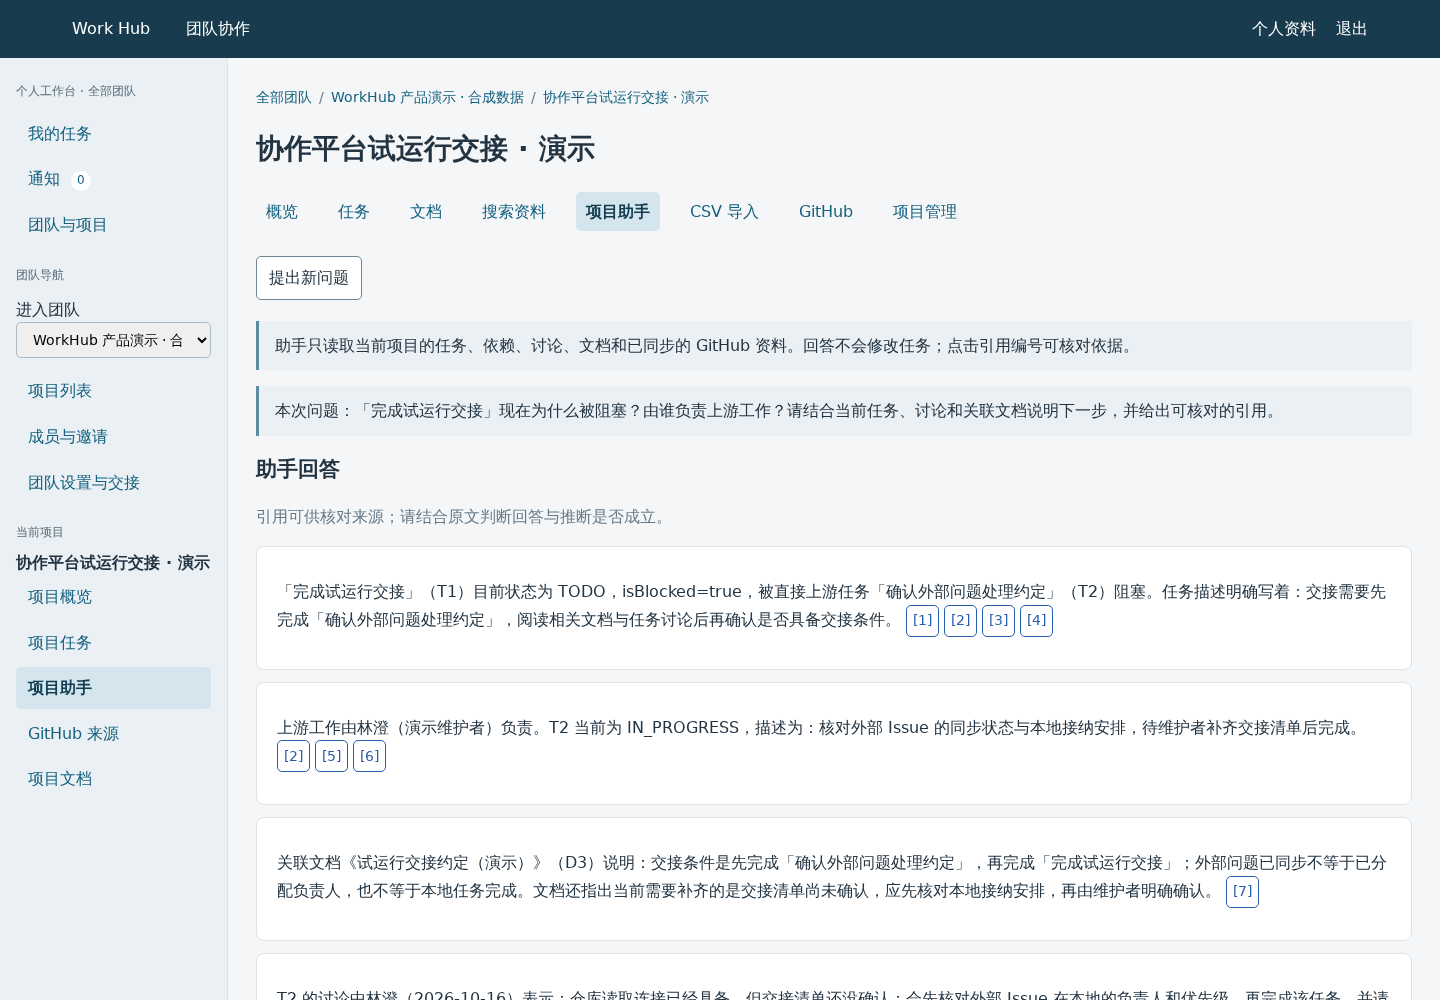
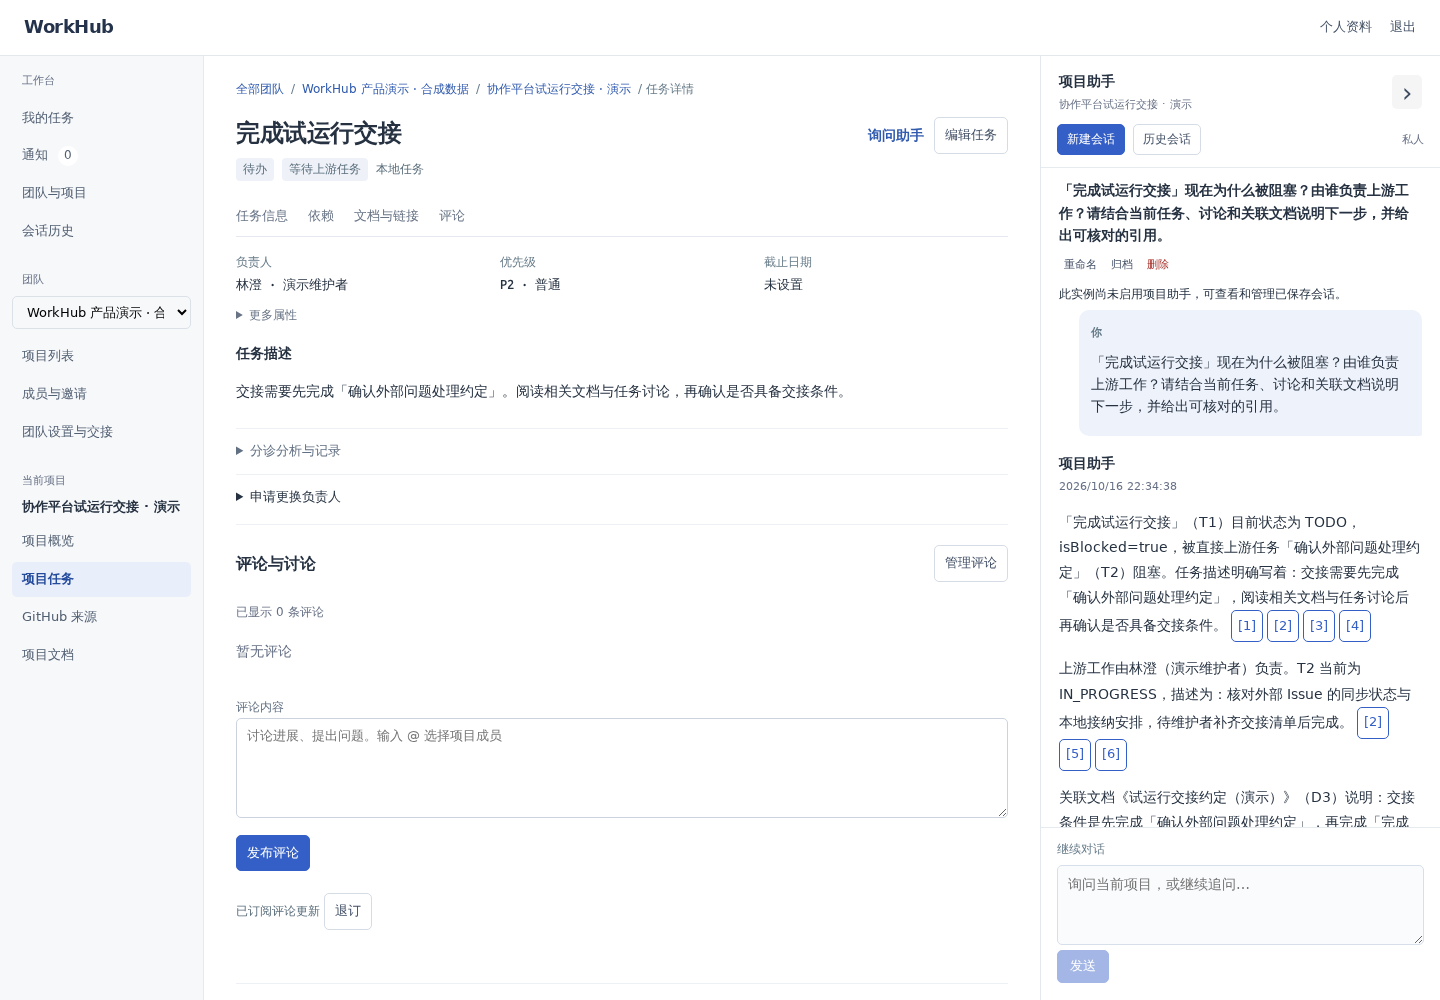
docs: present current product flows and local setup

diff --git a/README.md b/README.md
@@ -1,103 +1,75 @@
 # WorkHub
 
-WorkHub 面向研发团队，集中管理任务、依赖、项目资料和 GitHub Issue。项目助手读取当前项目资料并给出可核对的回答；待分诊任务的建议由维护者编辑、预览并明确批准后，才会提交到业务系统。
+WorkHub 是一个面向小型研发团队的项目协作工作台。任务、依赖、讨论、文档和 GitHub Issue 放在同一个项目中；接手项目时，可以沿着阻塞关系查找原因，也可以让项目助手读取资料，再通过引用核对原文。
 
 ## 产品演示
 
-一条典型路径是：接手项目 → 查看进展和阻塞 → 阅读任务、讨论与文档 → 向项目助手提问 → 点击引用核对原文。GitHub Issue 同步后进入同一个任务流程，维护者可以查看分诊建议并决定是否接纳。
+**先了解进展，再处理阻塞。** 项目概览展示各状态任务、直接阻塞和最近更新；进入任务后，可以继续查看上游工作、负责人、讨论和关联文档。
 
-![项目概览与阻塞任务](docs/assets/project-overview.png)
+![项目概览中的任务状态与阻塞工作](docs/assets/project-overview.png)
 
-![项目助手结合任务、讨论和文档回答，并附上原文引用](docs/assets/assistant-answer.png)
+**带着具体问题查证。** 项目助手在右侧保留会话，支持连续追问；打开引用后可以定位任务、评论或文档，并返回原来那一轮回答。
 
-截图取自已有本地演示，使用演示任务与资料，回答来自保存的真实模型调用；截图展示该演示版本的布局，不代表模型总体准确率。当前版本还支持项目内助手侧栏、私人会话、持续追问和历史恢复。
+![项目助手回答与可核查的来源](docs/assets/assistant-answer.png)
 
-| 能力 | 使用方式与边界 |
+截图由当前版本采集。任务与文档是本地合成场景；助手展示 2026 年 10 月 16 日保存的真实模型回答，并保留原时间与引用。新启动的数据库为空，不会自动写入演示数据。
+
+| 想完成的工作 | 操作路径 |
 |---|---|
-| 项目协作 | 任务、上游依赖、讨论、文档、站内通知和 CSV 导入；按团队与项目授权 |
-| GitHub Issue | 通过预授权仓库同步为任务；本地接纳与远端确认状态分别保存 |
-| 项目检索 | BM25、Dense 和 Hybrid；返回当前有权访问的来源与原文位置 |
-| 项目助手 | 只读工具查询、资料续读、带引用回答；私人会话按当前项目权限过滤 |
-| 分诊建议 | 项目可开启新任务自动分析；维护者仍需预览并明确批准接纳 |
-| 后台执行 | 持久任务、幂等处理、阶段进度与断线恢复；费用预算和速率限制可独立配置 |
+| 推进一项需求 | 成员提交待分诊任务 → 维护者确认安排并接纳 → 负责人执行、讨论或申请交接 |
+| 把 GitHub Issue 纳入协作 | 连接已授权仓库 → 同步 Issue → 分诊接纳 → 查看同步与远端修改的确认结果 |
+| 接手已有项目 | 查看概览 → 沿依赖追查阻塞 → 阅读讨论和文档 → 向助手提问 → 打开引用核查 |
 
-任务依赖用于呈现阻塞风险；直接上游非 DONE 时视为阻塞，但不作为下游完成的强制门禁。撤权后不再允许读取或提交新业务操作，归档项目保留可读历史并拒绝新业务写入。聊天不创建任务、评论或文档；模型建议不直接写回 GitHub。
+助手问答只读。分诊建议需要维护者编辑、保存、预览并明确批准，才会接纳任务。GitHub 修改“已受理”后仍需等待远端确认。
 
 ## 本地运行
 
-### 使用 Docker
-
-需要 Docker Compose 和 Python 3；应用在镜像内编译，不要求本机安装 Java 或 Maven。
+需要 Docker Compose 和 Python 3。基础协作可以直接启动：
 
 ```bash
 python3 scripts/init-env.py
 docker compose --profile app up --build -d --wait --wait-timeout 300
 ```
 
-1. 打开 <http://127.0.0.1:18080>，注册账号，密码至少 12 字符。
-2. 打开本地邮件收件箱 <http://127.0.0.1:18025>，通过验证链接启用账号。
-3. 登录后创建团队和项目，创建任务、关联上游任务并添加文档与讨论。
+1. 打开 [WorkHub](http://127.0.0.1:18080)，使用自己的演示邮箱注册；密码至少 12 个字符。
+2. 打开 [本地邮件收件箱](http://127.0.0.1:18025)，通过邮件链接验证账号。
+3. 登录后创建团队和项目，添加任务、上游依赖、文档和讨论。邀请其他账号加入团队后，再授予项目访问权。
 
-`app` 启动 WorkHub、MySQL、RabbitMQ 和 Mailpit。基础协作不需要模型密钥；截图中的演示数据不会写入新数据库。首次构建需联网下载官方镜像与 Maven 依赖。端口仅绑定本机，默认 Cookie 配置适用于本地 HTTP；HTTPS 部署需设置 `SESSION_COOKIE_SECURE=true`。
-
-```bash
-docker compose --profile app logs -f app             # 应用日志
-docker compose --profile app up --build -d --wait     # 源码更新后重新构建并更新容器
-docker compose --profile app down                    # 移除容器，保留命名数据卷
-```
-
-MySQL 保存业务数据与 CSV 文件，`app-data` 保存邮件加密密钥；应一起备份。`down -v` 会删除命名数据卷，仅用于明确要清空数据的环境。`init-env.py` 不覆盖已有 `.env`。更改浏览器访问端口时，同时更新 `APP_PORT` 和 `WORKHUB_PUBLIC_URL`，保证验证邮件中的链接可打开。宿主机端口与容器内部连接地址分别配置，不要将宿主机端口填入容器连接地址。
-
-### 在宿主机运行应用
-
-需要 Bash 和 Java 17。已有 JDK 时设置 `JAVA_HOME` 或将 `java` 放到 PATH；Linux x86_64 也可运行 `python3 scripts/bootstrap-jdk.py`，按 [JDK 锁文件](scripts/jdk-lock.json) 下载到 `.tools/jdk`。
+这个启动方式同时运行 WorkHub、MySQL、RabbitMQ 和 Mailpit，无需宿主机 JDK。基础协作不需要模型或 GitHub 密钥；未配置助手时，页面会显示未启用状态。
 
 ```bash
-python3 scripts/init-env.py
-docker compose up -d --wait
-scripts/run.sh -DskipTests package
-scripts/run-app.sh
+docker compose --profile app logs -f app          # 查看应用日志
+docker compose --profile app up --build -d --wait # 更新源码后重新构建
+docker compose --profile app down                 # 停止并移除容器，保留数据卷
 ```
 
-默认 `async` profile 只启动中间件，供宿主机应用使用。同一个数据库不要同时运行两种启动方式。宿主机模式的 `.tools/mail.key` 与容器模式的 `app-data` 各自保存密钥，已有数据库切换运行方式时需要迁移原密钥，不能直接重新生成。
+数据库保存业务数据与 CSV 文件，`app-data` 保存邮件加密密钥，应一起备份。`down -v` 会删除命名数据卷，仅用于明确要清空数据的环境。初始化脚本不会覆盖已有 `.env`。
+
+端口默认只绑定本机。修改访问端口时，同时更新 `.env` 中的 `APP_PORT` 和 `WORKHUB_PUBLIC_URL`，保证验证邮件指向正确地址；HTTPS 部署需开启 `SESSION_COOKIE_SECURE`。
 
 ## 可选接入
 
-| 能力 | 前置条件 |
+| 能力 | 如何启用 |
 |---|---|
-| BM25 检索 | 设置 `WORKHUB_RETRIEVAL_ENABLED=true`；容器模式增加 `--profile retrieval`，宿主机模式使用 `async,retrieval` |
-| Dense / Hybrid | 在检索基础上配置独立 Embedding 端点、密钥、模型维度与预算，显式开启 Embedding |
-| 项目问答 / 分诊 | 配置 `WORKHUB_AGENT_*` 与 `WORKHUB_GLM_*`，确认费用授权和预算，再开启助手 |
-| 共享模型准入 | 增加 `model-governance` profile，配置配额 scope、速率和 burst，通过 `scripts/model-admission.py` 显式初始化专用 Redis |
-| GitHub 同步 | 配置 GitHub App，通过部署管理命令预授权 installation/repository 并开启 `WORKHUB_GITHUB_ENABLED`；远端写回有独立开关 |
+| GitHub Issue 同步 | 配置 GitHub App，将安装和仓库预授权给团队，再由项目维护者连接；远端写回有独立开关 |
+| 项目助手与分诊建议 | 配置模型端点、密钥和费用额度，再开启助手；项目自动分诊设置独立管理 |
+| 项目正文检索 | 开启检索并增加 `retrieval` profile，使用 Elasticsearch 搜索项目资料 |
+| 语义与混合检索 | 在检索基础上配置独立 Embedding 服务、维度和额度；相关策略通过检索接口使用 |
+| 共享模型准入 | 增加 `model-governance` profile，初始化专用 Redis 的速率与配额配置 |
 
-部署管理的容器命令见[架构说明](docs/ARCHITECTURE.md)。容器模式的 GitHub App 私钥需通过本地 Compose override 只读挂载到容器，并将 `GITHUB_APP_PRIVATE_KEY_FILE` 指向容器内路径；宿主机路径不会自动进入镜像。项目自动分诊开关不代替模型费用授权。配置名称与默认值见 [application.yml](src/main/resources/application.yml) 和 [.env.example](.env.example)。
+配置项见 [.env.example](.env.example)。GitHub 预授权命令、私钥挂载及宿主机开发方式见[架构与运行说明](docs/ARCHITECTURE.md)。
 
-## 测试
+## 开发与验证
+
+前端使用应用直接提供的 HTML、CSS 和 JavaScript；后端为 Java 17 / Spring Boot，使用 JDBC、Flyway、MySQL 和 RabbitMQ。检索与模型准入按需接入 Elasticsearch 和专用 Redis。
 
 ```bash
-# 公开文件范围、文档链接和检查器回归；无需中间件
 python3 scripts/check-public-tree.py
 python3 scripts/test-public-tree.py
-
-# Java 单元测试；无需中间件
-scripts/run.sh test
-
-# 核心集成回归；使用专用本地测试环境
-docker compose up -d --wait
-scripts/init-test-env.sh
-scripts/test-core.sh
+scripts/run.sh test  # 需要 Java 17
 ```
 
-核心回归覆盖迁移、任务权限、消息发布、幂等执行和进程退出恢复。浏览器、检索、会话及外部服务测试的前置条件见 [测试说明](docs/TESTING.md)。测试报告与截图写入 `target/`。工程测试通过不等于真实模型回答正确。
+- [架构、核心流程与运行方式](docs/ARCHITECTURE.md)
+- [集成测试、浏览器回归与环境准备](docs/TESTING.md)
 
-## 架构与开发
-
-Java 17、Spring Boot、Spring JDBC/Security/Session/AMQP、Flyway；MySQL 保存业务事实，RabbitMQ 运输后台工作，Elasticsearch 提供派生检索，专用 Redis 协调模型准入。具体版本由 [pom.xml](pom.xml) 和 [compose.yaml](compose.yaml) 固定。
-
-- [架构、核心流程与取舍](docs/ARCHITECTURE.md)
-- [测试与公开范围检查](docs/TESTING.md)
-
-`main` 保持可运行版本，开发使用短期的 `feat/...`、`fix/...` 或 `chore/...` 分支，验证后合入；展示版本用 tag 标记。提交前运行公开范围检查，暂存后用 `python3 scripts/check-public-tree.py --staged` 检查实际提交内容。新增运行文件时同步维护检查器的允许清单。
-
-工作记录、实验输出和临时文件存放于忽略目录或仓库外。公开仓库保留正式源码、测试与必要文档；提交文件检查不能清除旧历史，发布前还需确认要公开的提交历史。
+`main` 保持稳定可运行，开发使用短期分支，验证后合入；展示版本用 tag 标记。提交前检查公开文件范围，暂存后运行 `python3 scripts/check-public-tree.py --staged`。
